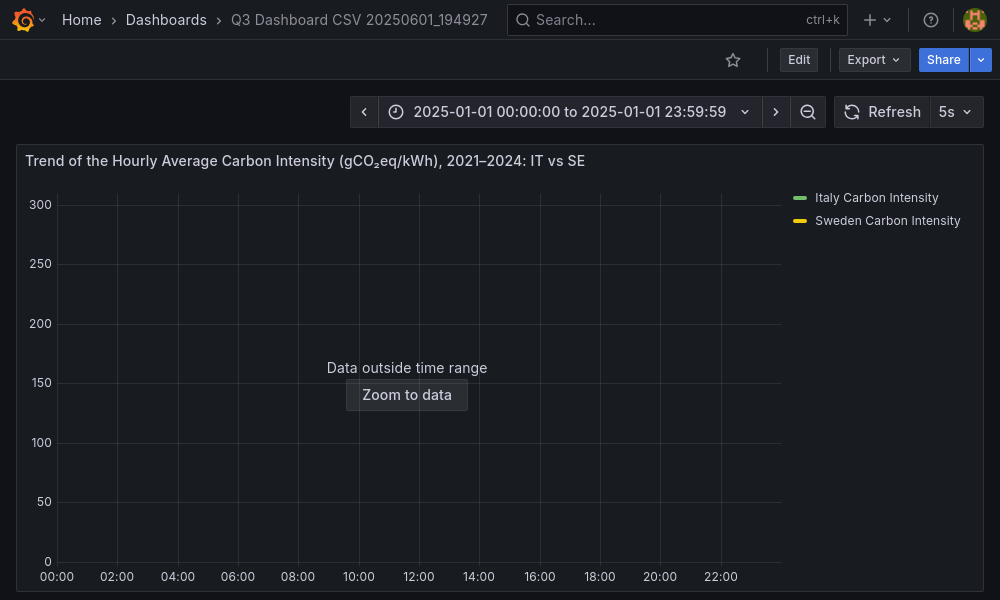
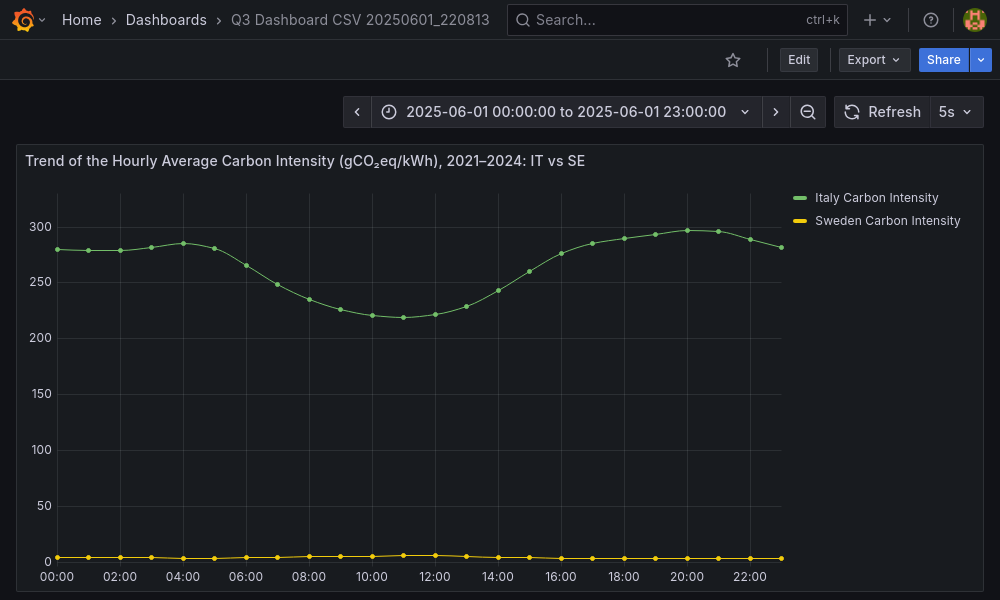
Now, grafana script for Q3 works

diff --git a/scripts/grafana/create_q3_plots.py b/scripts/grafana/create_q3_plots.py
@@ -31,7 +31,6 @@ def save_dashboard():
 
         wait.until(EC.element_to_be_clickable((By.CSS_SELECTOR, "button[data-testid*='Panel menu']"))).click()
         wait.until(EC.element_to_be_clickable((By.CSS_SELECTOR, "a[data-testid*='Panel menu item Edit']"))).click()
-        #wait.until(EC.element_to_be_clickable((By.CSS_SELECTOR, "button[data-testid='time-series-zoom-to-data']:not([disabled])"))).click()
         wait.until(EC.element_to_be_clickable((By.CSS_SELECTOR, "button[data-testid='data-testid Save dashboard button']"))).click()
         wait.until(EC.element_to_be_clickable((By.CSS_SELECTOR, "button[data-testid='data-testid Save dashboard drawer button']:not([disabled])"))).click()
 
@@ -92,6 +91,7 @@ if res_ds.status_code not in (200, 409):
 print("✅ Datasource creato.")
 
 # 2. Crea la dashboard con il pannello per Carbon Intensity
+today_str = datetime.utcnow().strftime("%Y-%m-%d")
 dashboard_payload = {
     "dashboard": {
         "id": None,
@@ -99,8 +99,8 @@ dashboard_payload = {
         "title": dashboard_title,
         "timezone": "browser",
         "time": {
-            "from": "2025-01-01T00:00:00Z",
-            "to": "2025-01-01T23:59:59Z"
+            "from": f"{today_str}T00:00:00Z",
+            "to": f"{today_str}T23:00:00Z"
         },
         "panels": [
             {
